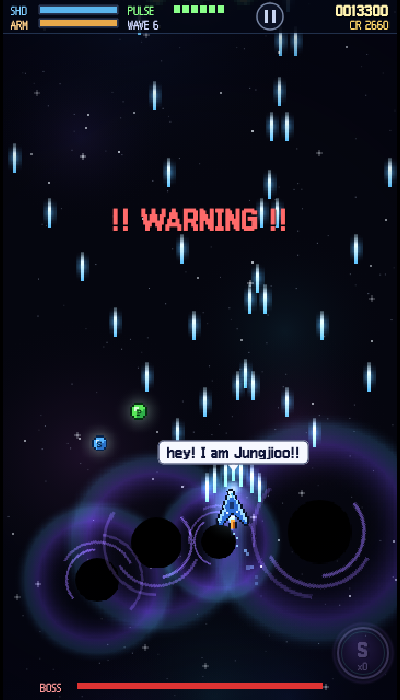
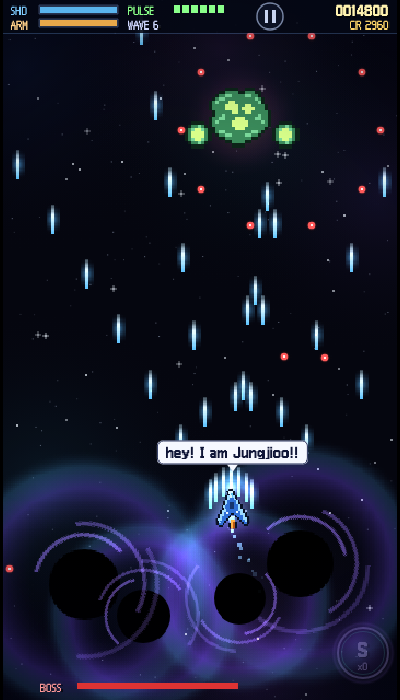
M4 리뷰 반영: 팬텀 실드 우회·엔들리스 보스 순환·풀 flip 오염 등 확정 15건 수정
- [high] 슈퍼 팬텀이 실드 코어 무적을 우회하던 문제 (실드 파츠 우선 타격)
- [high] 엔들리스 보스 순환 고장(항상 아메바) — levelWave 누적 유지로 순환 복구
- [high] ImagePool flip 미리셋으로 장비탄 setFlipY가 풀 전체 오염 → setFlip 리셋
- [high/med] 유도탄·위성이 무적 코어만 조준 → 실드 페이즈에 파츠 조준
- [med] IMMUNE 스팸 시간 쿨다운 + 실드 코어에서 관통탄 관통력 보존
- [med] shop.json baseStat/캡을 너프된 시작치(50/40)에 정합화(캡 150/140)
- [med] 이어하기·엔들리스는 상점 경유 시작(보정 크레딧 즉시 사용 가능)
- [med] 비포커스 시작 일시정지 no-op 수정, BGM 히든 탭 스케줄 중단/복귀
- [low] 사망 시 사이드킥 숨김, 엔들리스 GO 라벨·인트로 정리, 음소거 저장 적용,
  중력 entered 가드+유도탄 적용, 일시정지 중 핫리로드 유실 방지, 상점 noop 피드백

diff --git a/src/scenes/GameScene.ts b/src/scenes/GameScene.ts
@@ -261,6 +261,8 @@ export class GameScene extends Phaser.Scene {
   private bubbleText!: Phaser.GameObjects.Text;
   private bubbleMsg = '';
 
+  private immuneMsgT = 0;
+
   // 개발용 (?auto ?god) / 디버그 도구 (?debug — PLAN 3장)
   private auto = false;
   private god = false;
@@ -373,6 +375,10 @@ export class GameScene extends Phaser.Scene {
 
     // 데이터 핫리로드 → 세션 유지한 채 현재 웨이브부터 재생
     const onDataReload = (): void => {
+      if (this.scene.isPaused(SceneKeys.Game)) {
+        this.scene.stop(SceneKeys.Pause);
+        this.scene.resume();
+      }
       if (!this.scene.isActive(SceneKeys.Game)) return;
       if (this.pendingShop > 0 && !this.session.campaignDone) {
         // 보스 격파~상점 전환 창: 상점을 건너뛰지 않도록 곧장 상점으로
@@ -404,7 +410,7 @@ export class GameScene extends Phaser.Scene {
       this.session.levelWave--;
       this.session.wave = Math.max(0, this.session.wave - 1);
     }
-    if (!this.auto && !document.hasFocus()) this.togglePause(true);
+    if (!this.auto && !document.hasFocus()) this.time.delayedCall(0, () => this.togglePause(true));
     this.nextWave();
   }
 
@@ -646,7 +652,13 @@ export class GameScene extends Phaser.Scene {
       };
       kb.on('keydown-X', () => this.startSuper());
       kb.on('keydown-B', () => this.startSuper());
-      kb.on('keydown-M', () => this.hudMute.setVisible(toggleMute()));
+      kb.on('keydown-M', () => {
+        const m = toggleMute();
+        this.hudMute.setVisible(m);
+        updateSave((sv) => {
+          sv.settings.muted = m;
+        });
+      });
       kb.on('keydown-P', () => this.togglePause());
       kb.on('keydown-ESC', () => this.togglePause());
     }
@@ -932,8 +944,22 @@ export class GameScene extends Phaser.Scene {
     }
     if (this.boss) {
       const B = this.boss;
-      const d = (B.x - x) * (B.x - x) + (B.y - y) * (B.y - y);
-      if (d < bd) best = B;
+      if (this.coreShielded(B)) {
+        // 실드 페이즈: 무적 코어 대신 살아 있는 파츠를 조준
+        for (const part of B.parts) {
+          if (!part.alive) continue;
+          const px2 = B.x + part.def.dx;
+          const py2 = B.y + part.def.dy;
+          const d = (px2 - x) * (px2 - x) + (py2 - y) * (py2 - y);
+          if (d < bd) {
+            bd = d;
+            best = { x: px2, y: py2 };
+          }
+        }
+      } else {
+        const d = (B.x - x) * (B.x - x) + (B.y - y) * (B.y - y);
+        if (d < bd) best = B;
+      }
     }
     return best;
   }
@@ -1077,6 +1103,9 @@ export class GameScene extends Phaser.Scene {
       this.addBoom(this.px + 11, this.py - 8, 1.4, false);
       this.playerImg.setVisible(false);
       this.flameImg.setVisible(false);
+      this.podL?.setVisible(false);
+      this.podR?.setVisible(false);
+      this.satellite?.setVisible(false);
       this.deathT = 1.4;
     }
   }
@@ -1144,9 +1173,8 @@ export class GameScene extends Phaser.Scene {
           );
           if (this.session.campaignDone) sv.progress.endlessUnlocked = true;
         });
-      } else {
-        this.session.levelWave = 0;
       }
+      // 엔들리스는 levelWave를 계속 누적 — 순환 인덱스(cycle/6)가 진행된다
       this.boss = null;
       this.bossBar.setVisible(false);
       this.bossLabel.setVisible(false);
@@ -1315,7 +1343,11 @@ export class GameScene extends Phaser.Scene {
         )
       ) {
         B.hcd = B.def.hitCooldown;
-        this.damageBoss(SUPER.phantomBossDamage);
+        // 실드 파츠가 살아 있으면 팬텀도 파츠부터 부순다 (코어 무적 우회 방지)
+        const shieldPart =
+          B.parts.find((pp) => pp.alive && pp.def.shield) ?? B.parts.find((pp) => pp.alive);
+        if (shieldPart) this.damagePart(shieldPart, B, SUPER.phantomBossDamage);
+        else this.damageBoss(SUPER.phantomBossDamage);
       }
       if (q.y < -50) {
         this.pool.release(q.img);
@@ -1363,6 +1395,7 @@ export class GameScene extends Phaser.Scene {
       this.bannerText.setAlpha(Math.min(1, this.bannerT * 2));
       if (this.bannerT <= 0) this.bannerText.setVisible(false);
     }
+    if (this.immuneMsgT > 0) this.immuneMsgT -= dt;
     if (this.sp) this.updateSuper(dt);
     if (this.auto) this.updateAutoPilot(dt);
 
@@ -1469,7 +1502,7 @@ export class GameScene extends Phaser.Scene {
       if (!ay) this.pvy *= fr;
     }
     // 블랙홀 중력: 기체도 서서히 끌린다
-    const grav = this.boss?.def.gravity;
+    const grav = this.boss?.entered ? this.boss.def.gravity : undefined;
     if (grav && this.boss && this.alive) {
       const dx = this.boss.x - this.px;
       const dy = this.boss.y - this.py;
@@ -1599,6 +1632,17 @@ export class GameScene extends Phaser.Scene {
       if (!b) continue;
       b.t += dt;
       if (b.homing) {
+        const gh = this.boss?.entered ? this.boss.def.gravity : undefined;
+        if (gh && this.boss) {
+          const dx = this.boss.x - b.x;
+          const dy = this.boss.y - b.y;
+          const L = Math.hypot(dx, dy);
+          if (L < gh.radius && L > 1) {
+            const f = gh.pull * (1 - L / gh.radius);
+            b.vx += (dx / L) * f * dt;
+            b.vy += (dy / L) * f * dt;
+          }
+        }
         const tgt = this.nearestTarget(b.x, b.y);
         if (tgt) {
           const L = Math.hypot(tgt.x - b.x, tgt.y - b.y) || 1;
@@ -1617,7 +1661,7 @@ export class GameScene extends Phaser.Scene {
         b.x = b.x0 + Math.sin(b.t * 22 + (b.ph ?? 0)) * 8;
       } else {
         // 블랙홀 중력: 탄이 보스 쪽으로 끌린다 (탄을 빨아들이는 기믹)
-        const g = this.boss?.def.gravity;
+        const g = this.boss?.entered ? this.boss.def.gravity : undefined;
         if (g && this.boss) {
           const dx = this.boss.x - b.x;
           const dy = this.boss.y - b.y;

diff --git a/src/systems/Music.ts b/src/systems/Music.ts
@@ -112,6 +112,25 @@ let nextTime = 0;
 let noiseBuf: AudioBuffer | null = null;
 let musicVol = 1;
 
+// 히든 탭에서는 타이머 스로틀로 음이 뚝뚝 끊기므로 스케줄을 멈춘다
+let visInstalled = false;
+function installVisibilityGuard(): void {
+  if (visInstalled) return;
+  visInstalled = true;
+  document.addEventListener('visibilitychange', () => {
+    if (document.hidden) {
+      if (timer !== null) {
+        clearInterval(timer);
+        timer = null;
+      }
+    } else if (current && timer === null && tickRef) {
+      nextTime = 0;
+      timer = window.setInterval(tickRef, 100);
+    }
+  });
+}
+let tickRef: (() => void) | null = null;
+
 function noise(ctx: AudioContext): AudioBuffer {
   if (!noiseBuf) {
     noiseBuf = ctx.createBuffer(1, ctx.sampleRate / 2, ctx.sampleRate);
@@ -192,6 +211,7 @@ export function playMusic(key: string): void {
   if (!song) return;
   current = key;
   step = 0;
+  installVisibilityGuard();
   const tick = (): void => {
     const ctx = getAudioContext();
     if (!ctx || ctx.state !== 'running' || isMuted()) return;
@@ -204,8 +224,11 @@ export function playMusic(key: string): void {
     }
   };
   nextTime = 0;
-  timer = window.setInterval(tick, 100);
-  tick();
+  tickRef = tick;
+  if (!document.hidden) {
+    timer = window.setInterval(tick, 100);
+    tick();
+  }
 }
 
 export function stopMusic(): void {
@@ -214,6 +237,7 @@ export function stopMusic(): void {
     timer = null;
   }
   current = null;
+  tickRef = null;
 }
 
 export function currentMusic(): string | null {

diff --git a/src/scenes/TitleScene.ts b/src/scenes/TitleScene.ts
@@ -15,6 +15,8 @@ const DIFF_ORDER: Difficulty[] = ['easy', 'normal', 'hard'];
 interface MenuEntry {
   label: string;
   action: () => GameSession;
+  /** 보정 크레딧을 바로 쓸 수 있게 상점을 먼저 연다 */
+  viaShop?: boolean;
 }
 
 export class TitleScene extends Phaser.Scene {
@@ -71,6 +73,7 @@ export class TitleScene extends Phaser.Scene {
       const lv = Math.min(save.progress.unlockedLevel, DATA.levels.levels.length);
       this.menu.push({
         label: t('title.menu.continue', lv),
+        viaShop: true,
         action: () => {
           const s = newSession();
           s.level = lv;
@@ -83,6 +86,7 @@ export class TitleScene extends Phaser.Scene {
     if (save.progress.endlessUnlocked) {
       this.menu.push({
         label: t('title.menu.endless'),
+        viaShop: true,
         action: () => {
           const s = newSession();
           s.endless = true;
@@ -205,6 +209,7 @@ export class TitleScene extends Phaser.Scene {
     if (!entry) return;
     this.starting = true;
     audioResume();
-    this.scene.start(SceneKeys.StageIntro, { session: entry.action() });
+    const session = entry.action();
+    this.scene.start(entry.viaShop ? SceneKeys.Shop : SceneKeys.StageIntro, { session });
   }
 }

diff --git a/tests/shop.test.ts b/tests/shop.test.ts
@@ -73,22 +73,22 @@ describe('upgrade items (demo price curves)', () => {
     expect(s.rear).toBe('sidecutter');
   });
 
-  it('shield: 300 + (max-60)*6, refills, caps at 160', () => {
+  it('shield: 300 + (max-50)*6, refills, caps at 150', () => {
     const s = state({ shieldMax: 100, shield: 10 });
-    expect(shield?.price(s)).toBe(540);
+    expect(shield?.price(s)).toBe(600);
     itemAction(s, shield!);
     expect(s.shieldMax).toBe(120);
     expect(s.shield).toBe(120);
-    expect(shield?.can(state({ shieldMax: 160 }))).toBe(false);
+    expect(shield?.can(state({ shieldMax: 150 }))).toBe(false);
   });
 
-  it('armor: 300 + (max-50)*6, repairs, caps at 150', () => {
+  it('armor: 300 + (max-40)*6, repairs, caps at 140', () => {
     const s = state({ armorMax: 90, armor: 5 });
-    expect(armor?.price(s)).toBe(540);
+    expect(armor?.price(s)).toBe(600);
     itemAction(s, armor!);
     expect(s.armorMax).toBe(110);
     expect(s.armor).toBe(110);
-    expect(armor?.can(state({ armorMax: 150 }))).toBe(false);
+    expect(armor?.can(state({ armorMax: 140 }))).toBe(false);
   });
 
   it('super: flat 600, caps at 5', () => {

diff --git a/src/scenes/ShopScene.ts b/src/scenes/ShopScene.ts
@@ -199,12 +199,13 @@ export class ShopScene extends Phaser.Scene {
       const it = UPGRADE_ITEMS[sel - N_WPN - N_REAR - N_SIDE];
       if (it) r = itemAction(s, it);
     } else {
-      this.scene.start(SceneKeys.StageIntro, { session: s });
+      // 엔들리스는 레벨 인트로 없이 바로 전장으로
+      this.scene.start(s.endless ? SceneKeys.Game : SceneKeys.StageIntro, { session: s });
       return;
     }
     if (r === 'bought') SFX.buy();
     else if (r === 'equipped') SFX.pow();
-    else if (r === 'denied') SFX.deny();
+    else SFX.deny();
     this.refresh();
   }
 
@@ -287,6 +288,6 @@ export class ShopScene extends Phaser.Scene {
         .setColor(can ? (afford ? '#ffd76a' : '#8b6a3a') : '#5a6178');
     });
     this.detailText.setText(detail);
-    this.goText.setText(t('shop.go.level', s.level));
+    this.goText.setText(s.endless ? t('shop.go', s.wave + 1) : t('shop.go.level', s.level));
   }
 }

diff --git a/src/main.ts b/src/main.ts
@@ -1,7 +1,8 @@
 import Phaser from 'phaser';
 
 import { BACKGROUND_COLOR, GAME_HEIGHT, GAME_WIDTH } from './config';
-import { installAudioUnlock } from './systems/Sfx';
+import { loadSave } from './systems/Save';
+import { installAudioUnlock, setMuted } from './systems/Sfx';
 import { BootScene } from './scenes/BootScene';
 import { CreditsScene } from './scenes/CreditsScene';
 import { GameScene } from './scenes/GameScene';
@@ -71,6 +72,7 @@ function boot(): void {
   });
 
   installAudioUnlock();
+  setMuted(loadSave().settings.muted);
 
   // 개발·디버그 도구(?debug HUD 포함)에서 접근할 수 있게 노출.
   window.__game = game;

diff --git a/src/systems/Pool.ts b/src/systems/Pool.ts
@@ -32,6 +32,7 @@ export class ImagePool {
     img.setScale(1);
     img.setRotation(0);
     img.clearTint();
+    img.setFlip(false, false);
     img.setBlendMode(Phaser.BlendModes.NORMAL);
     return img;
   }
